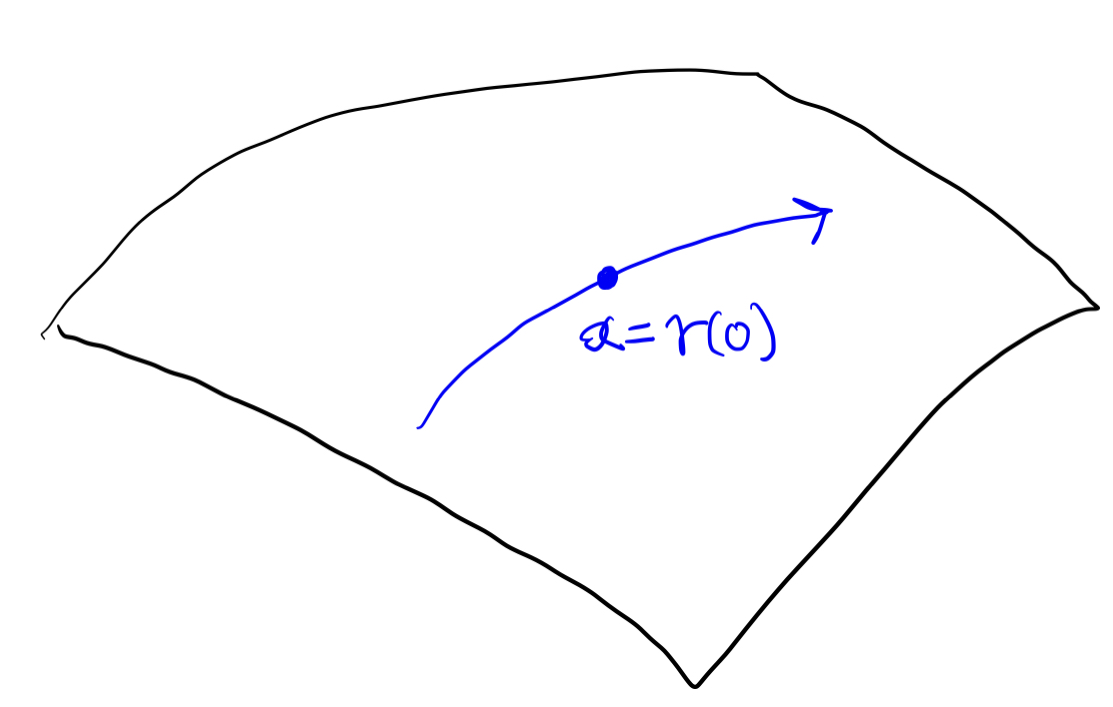
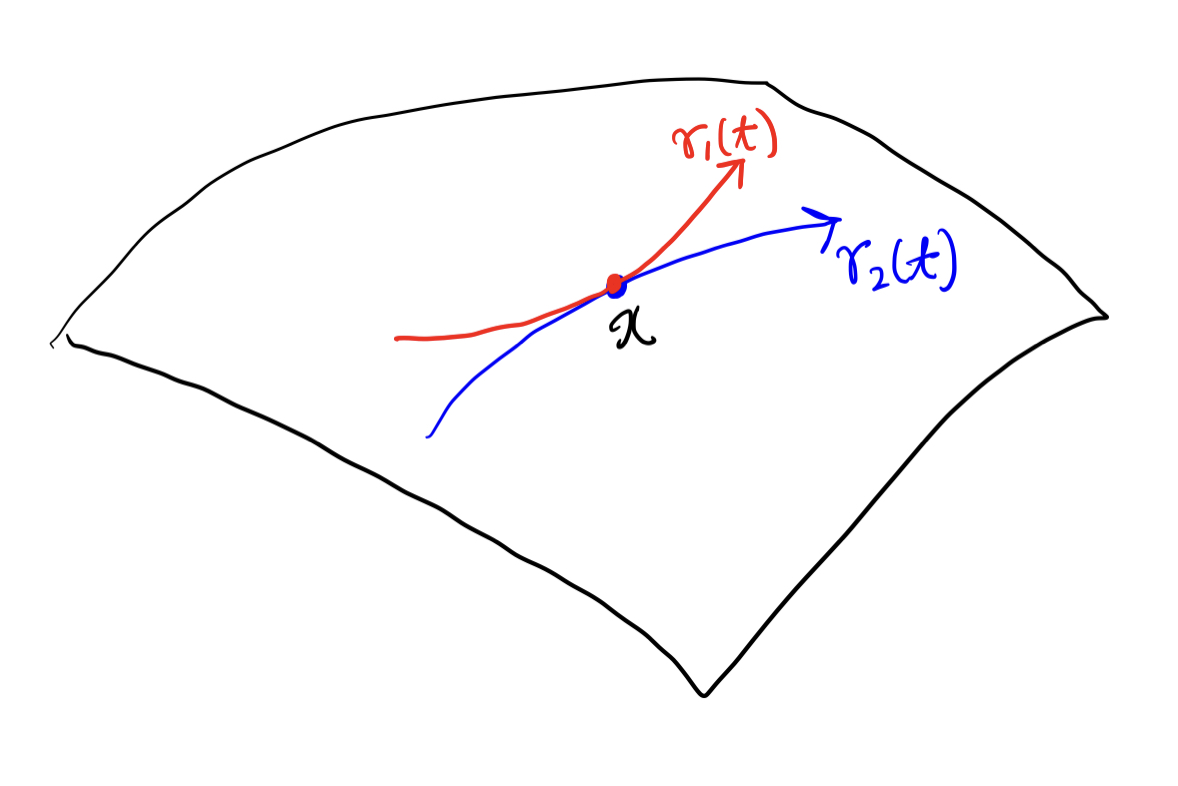
deploy: 22c6644ac49451fe6e3b860579829c01e823a8e8

diff --git a/6-tangent/index.html b/6-tangent/index.html
@@ -1,20 +1,14 @@
 <!doctype html><html lang=ja-jp prefix="og: http://ogp.me/ns# fb: http://ogp.me/ns/fb#"><head><meta charset=utf-8><meta http-equiv=x-ua-compatible content="IE=edge,chrome=1"><meta name=description content><meta name=HandheldFriendly content="True"><meta name=MobileOptimized content="320"><meta name=viewport content="width=device-width,initial-scale=1"><meta name=keywords content><meta property="og:type" content="article"><meta property="og:description" content><meta property="og:title" content="6. 接ベクトル空間"><meta property="og:site_name" content="Manifold Optimization"><meta property="og:image" content><meta property="og:image:type" content="image/jpeg"><meta property="og:image:width" content><meta property="og:image:height" content><meta property="og:url" content="https://nineties.github.io/manifold-optimization/6-tangent/"><meta property="og:locale" content="ja-jp"><meta property="article:published_time" content="0001-01-01
 "><meta property="article:modified_time" content="0001-01-01
 "><title>6. 接ベクトル空間</title><link rel=canonical href=https://nineties.github.io/manifold-optimization/6-tangent/><link rel=stylesheet href=https://unpkg.com/tachyons@4.11.1/css/tachyons.min.css><link rel=stylesheet href=https://nineties.github.io/manifold-optimization/css/style.css><link rel=stylesheet href=https://nineties.github.io/manifold-optimization/css/custom.css><link rel=stylesheet href=https://cdn.jsdelivr.net/npm/highlightjs@9.12.0/styles/github-gist.css><link rel=stylesheet type=text/css href=https://nineties.github.io/manifold-optimization/css/mathjax-style.css><script>MathJax={tex:{inlineMath:[['$','$']],displayMath:[['$$','$$']],processEscapes:!0,tags:"ams",autoload:{color:[],colorV2:['color']},packages:{'[+]':['noerrors']}},chtml:{matchFontHeight:!1,displayAlign:"left",displayIndent:"2em"},options:{renderActions:{find_script_mathtex:[10,function(a){for(const b of document.querySelectorAll('script[type^="math/tex"]')){const e=!!b.type.match(/; *mode=display/),c=new a.options.MathItem(b.textContent,a.inputJax[0],e),d=document.createTextNode('');b.parentNode.replaceChild(d,b),c.start={node:d,delim:'',n:0},c.end={node:d,delim:'',n:0},a.math.push(c)}},'']}},loader:{load:['[tex]/noerrors']}}</script><script async src=https://cdn.jsdelivr.net/npm/mathjax@3/es5/tex-chtml.js id=MathJax-script></script><link rel="shortcut icon" href=/favicon.ico type=image/x-icon><link rel=apple-touch-icon href=/apple-touch-icon.png></head><body lang=ja-jp class="sans-serif w-90 w-60-ns center center-ns mv2 mv5-ns" itemscope itemtype=http://schema.org/Article><span class=b>/</span>
-<a href=https://nineties.github.io/manifold-optimization/ class="b bb bw1 pb1 no-underline black">Manifold Optimization</a><section id=main class=mt5><h1 itemprop=name id=title>6. 接ベクトル空間</h1><article itemprop=articleBody id=content class="w-90 lh-copy"><p>多様体上での最適化を行う上では、点 $x\in\mathcal{M}$ での勾配、もしくは方向微分に相当するものを考える必要がある。(
-<a href=https://nineties.github.io/manifold-optimization/4-submanifold/#def.differential>定義4.2</a>
-の方向微分はバナッハ空間の写像に対するもの)</p><p>多様体 $\mathcal{M}$ 上の実数値関数 $f:\mathcal{M}\rightarrow\mathbb{R}$ の点 $x\in\mathcal{M}$ での方向 $\eta$ についての方向微分は
-$$ \mathrm{D}_{f}(x)[\eta] = \lim_{t\rightarrow 0}\frac{f(x+t\eta)-f(x)}{t} $$</p><p>みたいな感じで書けそうな気がするが、多様体上の点 $x$ について加算は定義されていない。そもそも $\eta$ をどう表現するかも明らかではない。チャートを使うというのが一つの方法だが、そうするとチャートの選び方に依存したものとなり使い勝手が悪い。</p><p>そこで、可微分写像 $\gamma:\mathbb{R}\rightarrow\mathcal{M}$ であって $\gamma(0)=x$ を満たすものを考える。このような写像を $\mathcal{M}$ 上の <strong>曲線(curve)</strong> という。</p><figure><img src=../images/curve.png></figure><p>これで、 $\mathcal{M}$ 上の点の移動を表すことができるようになったが、その差分 $\gamma(0 + t) - \gamma(0)$ を計算する方法が無い。ただ、上で求めたかった方向微分はこの考え方で求めることができて</p><p>$$\lim_{t\rightarrow 0}\frac{f(\gamma(t))-f(\gamma(0))}{t} =
-\left.\frac{\mathrm{d}}{\mathrm{d}t}f\circ\gamma(t)\right|_{t=0}
-$$</p><p>となる($\because$ $f\circ\gamma:\mathbb{R}\rightarrow\mathbb{R}$は $C^\infty$ 級関数)。 これはチャートの選び方に寄らないが、もちろん $f$ の選び方に依存して決まる量である。</p><p>そこで、チャートにも $f$ にも寄らないものとして</p><p>$$f\longmapsto
-\left.\frac{\mathrm{d}}{\mathrm{d}t}f\circ\gamma(t)\right|_{t=0}
+<a href=https://nineties.github.io/manifold-optimization/ class="b bb bw1 pb1 no-underline black">Manifold Optimization</a><section id=main class=mt5><h1 itemprop=name id=title>6. 接ベクトル空間</h1><article itemprop=articleBody id=content class="w-90 lh-copy"><p>多様体上でニュートン法などの最適化アルゴリズムを実行する為には、点 $x\in\mathcal{M}$ で勾配や方向微分に相当するものを計算できる必要がある。多様体 $\mathcal{M}$ 上の実数値関数 $f:\mathcal{M}\rightarrow\mathbb{R}$ の点 $x\in\mathcal{M}$ での方向 $\eta$ についての方向微分は、多様体上の点について加法が定義されていないので</p><p>$$ \mathrm{D}_{f}(x)[\eta] = \lim_{t\rightarrow 0}\frac{f(x+t\eta)-f(x)}{t} $$</p><p>といった感じでは書けない。方向 $\eta$ をどう表現するかも明らかではない。チャートを使うというのが一つの方法だが、そうするとチャートの選び方に依存したものとなり使い勝手が悪い。そこで、接ベクトルや接ベクトル空間といった概念が登場する。</p><p>接ベクトルの定義にはいくつかの流儀があるみたいで、今回参考にしている<a href=https://press.princeton.edu/absil>教科書</a>では多様体上の実関数に対する微分作用素を接ベクトルとする定義を採用している。この定義は理屈としては分かるものの、図形的な直感を(私は)なかなか得られなかったので、このノートでは別の定義から出発したいと思う。 そちらの定義では曲線の同値類として接ベクトルを定義をする。</p><hr><p>可微分写像 $\gamma:\mathbb{R}\rightarrow\mathcal{M}$ を $\mathcal{M}$ 上の <strong>曲線(curve)</strong> という。</p><figure><img src=../images/curve.png></figure><p>点 $x$ を通る曲線を用いる事で $x$ における点の運動を表現できそうである。但し、関心があるのは $x$ の局所的な様子であって曲線全体ではないので、 $x$ において同じ運動をしていると見なせる曲線群を同一視しようというのがこの定義のアイデアである。同じ運動をしているか否かは、点 $x$ の周囲に座標系を貼り付けた時に同じ速度ベクトルになっているか否かで判断できる。</p><div class=box><div class=title>定義6.1: 接ベクトル</div><p>$t=0$ で点 $x\in\mathcal{M}$ を通る曲線の集合
+$$ \mathcal{L}_x = \{\gamma:\mathbb{R}\rightarrow\mathcal{M} \mid \gamma(0)=x \}$$
+の上の同値関係を $x$ を含むチャート $(U,\varphi)$ を用いて
 $$
-という <strong>作用素</strong> を考えて、これを接ベクトルと呼ぶ。</p><div class=box><div class=title>定義6.1: 接ベクトル</div><p>$\mathcal{F}_x$ を $x\in\mathcal{M}$ の近傍で定義される$\mathbb{R}$への可微分写像の集合とする。</p><p>$x$を通る曲線 $\gamma:\mathbb{R}\rightarrow\mathcal{M}, \gamma(0)=x$ に対して、写像 $\xi_x:\mathcal{F}_x\rightarrow\mathbb{R}$</p><p>$$ \xi_x(f) = \left.\frac{\mathrm{d}}{\mathrm{d}t}f(\gamma(t))\right|_{t=0}$$</p><p>を $x$ における $\mathcal{M}$ の <strong>接ベクトル(tangent vector)</strong> という。</p></div><p>作用素を接ベクトルというと言われてもイメージが湧かないので具体例を考える。$\mathcal{M}=\mathbb{R}^2$ として、</p><p>$$\gamma(t) = (\cos t,\sin t)^T $$</p><p>という曲線を考える。単位円を反時計回りに回る曲線である。任意の可微分写像 $f:\mathbb{R}^2\rightarrow\mathbb{R}$ に対して</p><p>$$
-\frac{\mathrm{d}}{\mathrm{d}t}f(\cos t,\sin t) = -f_x\sin t + f_y\cos t = \begin{pmatrix}f_x & f_y\end{pmatrix}\begin{pmatrix} -\sin t \\ \cos t \end{pmatrix}
-$$</p><p>となるが、ここで馴染みのある $\gamma$ の接ベクトルの表現 $\gamma'(t):=(-\sin t\ \cos t)^T$ が現れた。また $J_f(\gamma(t)):=(f_x\quad f_y)$ は $f$ のヤコビ行列であるので</p><p>$$
-\frac{\mathrm{d}}{\mathrm{d}t}f(\cos t,\sin t) = J_f(\gamma(t))\gamma'(t)
-$$</p><p>と書ける。一般に、 $\mathcal{M}$ がユークリッド空間であれば</p><p>$$ \dot{\gamma}(0)f = \mathrm{D}_f(\gamma(0))[\gamma'(0)] $$</p><p>が成立し、曲線に沿った方向微分となっている事が分かる。</p><div class=box><div class=title>命題6.2</div><p>2つの $x$ を通る曲線 $\gamma_1,\gamma_2\ (\gamma_1(0)=\gamma_2(0)=x)$ から得られる $x$ での接ベクトルが一致するのは、適当な$x$を含むチャート $(U, \varphi(x))$ について</p><p>$$
-\left.\frac{\mathrm{d}}{\mathrm{d}t}\varphi(\gamma_1(t))\right|_{t=0} =
-\left.\frac{\mathrm{d}}{\mathrm{d}t}\varphi(\gamma_2(t))\right|_{t=0}
+\gamma_1\sim\gamma_2\Longleftrightarrow \frac{\mathrm{d}(\varphi\circ\gamma_1)}{\mathrm{d}t}(0) = \frac{\mathrm{d}(\varphi\circ\gamma_2)}{\mathrm{d}t}(0)
 $$
-となる時である。</p></div><p>接ベクトルというのは $x$ の周りの局所的な性質で決まるので、曲線の選び方には任意性があるが、適当なチャートで座標表示して得られる馴染みのある接ベクトル表現が一致すれば、どちらの曲線を選んでも良い。</p><div class=box><div class=title>定義6.3: 接ベクトル空間</div><p>多様体 $\mathcal{M}$ の点 $x$ における接ベクトルの集合を <strong>接ベクトル空間(tangent space)</strong> といい、 $T_x\mathcal{M}$ と書く。</p></div></article></section><footer><div><p class="f6 gray mt6 lh-copy"></p></div></footer><script src=//cdnjs.cloudflare.com/ajax/libs/highlight.js/9.14.2/highlight.min.js></script><script>hljs.initHighlightingOnLoad()</script></body></html>
+と定める。これはチャートの選び方に寄らない。
+$\mathcal{L}_x/{\sim}$ の元を $\mathcal{M}$ の点 $x$ での <strong>接ベクトル(tangent vector)</strong> という。</p></div><p>ここで定めた商集合 $\mathcal{L}_x/{\sim}$ にはベクトル空間の構造を入れることができる。点 $x$ の周りのチャート $(U,\varphi)$ を固定すると、$\mathcal{M}$ の接ベクトルと $\mathbb{R}^m$ の速度ベクトルが以下の対応によって一対一に対応する。</p><p>$$\phi:\mathcal{L}_x/{\sim}\longrightarrow\mathbb{R}^m: [\gamma] \longmapsto \frac{\mathrm{d}(\varphi\circ\gamma)}{\mathrm{d}t}(0) $$</p><p>これが単射であるのは定義より明らかで、全射であるのは任意の $v\in\mathbb{R}^m$ に対して</p><p>$$ \gamma(t) = \varphi^{-1}(\varphi(x) + vt) $$</p><p>とおけば $\phi([\gamma])=v$ となる事から分かる。</p><p>接ベクトルの和とスカラー倍と和も対応</p><p>$$ a_1[\gamma_1] + a_2[\gamma_2] \longmapsto a_1\frac{\mathrm{d}(\varphi\circ\gamma_1)}{\mathrm{d}t}(0) + a_2\frac{\mathrm{d}(\varphi\circ\gamma_2)}{\mathrm{d}t}(0)$$</p><p>によって定めれば良い。具体的に式で書くならば $\phi$ を使って</p><p>$$ a_1[\gamma_1] + a_2[\gamma_2] = \phi^{-1}(a_1\phi([\gamma_1])+a_2([\gamma_2])) $$</p><p>とすれば良い。これがチャート $(U,\varphi)$ の選び方に依存しない事は簡単に示すことができる。以上より$\mathcal{L}_x/{\sim}$ は$\mathcal{M}$と次元の等しいベクトル空間になる事が分かる。</p><div class=box><div class=title>定義6.2: 接ベクトル空間</div><p>$m$ 次元多様体の点 $x$ における接ベクトルの集合は $m$ 次元ベクトル空間である。これを <strong>接ベクトル空間(tangent vector space)</strong> といい $T_x\mathcal{M}$ と書く。</p></div><p>ベクトル空間であるからには、基底が存在してその線形結合で任意の元を表す事ができる。
+例えば $\mathbb{R}^m$ の標準基底</p><p>$$e_i=(0,\ldots,0,1,0,\ldots,0)^T$$</p><p>に対応する $T_x\mathcal{M}$ の元 $\phi^{-1}(e_i)$ が基底になる。この時の成分表示は
+$\varphi(x)=(\varphi_1(x)\ \cdots\ \varphi_m(x))^T$
+と表すと</p><p>$$\frac{\mathrm{d}(\varphi\circ\gamma)}{\mathrm{d}t}(0) = \left(\frac{\mathrm{d}(\varphi_1\circ\gamma)}{\mathrm{d}t}(0)\ \cdots\ \frac{\mathrm{d}(\varphi_m\circ\gamma)}{\mathrm{d}t}(0)\right)^T=\sum_{i}\frac{\mathrm{d}(\varphi_i\circ\gamma)}{\mathrm{d}t}(0)e_i$$</p><p>なので、$\phi^{-1}$ で $T_x\mathcal{M}$ に移すと</p><p>$$[\gamma] = \sum_i\frac{d(\varphi_i\circ\gamma)}{\mathrm{d}t}(0)\phi^{-1}(e_i) $$</p><p>となる。</p></article></section><footer><div><p class="f6 gray mt6 lh-copy"></p></div></footer><script src=//cdnjs.cloudflare.com/ajax/libs/highlight.js/9.14.2/highlight.min.js></script><script>hljs.initHighlightingOnLoad()</script></body></html>

diff --git a/5-construction/index.html b/5-construction/index.html
@@ -17,8 +17,7 @@ $(x,y)\in U\times V$ となる開集合 $U\times V\subset\mathrm{graph}({\sim})^
 \{ ((x,0),(x,1)) \mid x &lt; 0 \} \cup
 \{ ((x,1),(x,0)) \mid x &lt; 0 \}
 $$</p><p>となる。すると $\pi$ は沈め込みにはなるので第一の条件は満たすが、閉集合ではない。</p><div class=box><div class=title>命題5.6</div><p>$\mathcal{M}/{\sim}$ が $\mathcal{M}$ の商多様体であるとし、 $\pi:\mathcal{M}\rightarrow\mathcal{M}/{\sim}$ を自然な全射とする。</p><p>$\mathrm{dim}(\mathcal{M}/{\sim}) &lt; \mathrm{dim}(\mathcal{M})$ であるならば、任意の同値類 $[x]\in\mathcal{M}/{\sim}$ について $\pi^{-1}([x])$ は $\mathcal{M}$ の
-$\mathrm{dim}(\mathcal{M}) - \mathrm{dim}(\mathcal{M}/{\sim})$ 次元部分多様体である。</p></div><p><a href=https://nineties.github.io/manifold-optimization/4-submanifold/#th.submersion-theorem>定理4.13</a>
-より。</p><p>商多様体上の可微分写像に関して、以下が言える。</p><div class=box><div class=title>命題5.7</div><p>可微分写像 $f:\mathcal{M}\rightarrow\mathcal{N}$ が同値関係 $\sim$ に関して不変 ($x\sim y\Rightarrow f(x)=f(y)$) であるならば、</p><p>$$\tilde{f}\circ\pi=f$$</p><p>となるような連続写像 $\tilde{f}:\mathcal{M}/{\sim}\rightarrow\mathcal{N}$ が一意に存在する。</p></div><p>$f$ が不変であるということは、$\tilde{f}([x])=f(x)$ の値が $x$ の選び方に寄らない($\tilde{f}$がwell-definedである)ということ。</p><div id=ex.real-projective-space style=padding-top:100px;margin-top:-100px></div><div class=box><div class=title>例5.8: 実射影空間</div><p>$\mathbb{R}^n_\ast = \mathbb{R}^n\setminus\{0\}$ を同値関係
+$\mathrm{dim}(\mathcal{M}) - \mathrm{dim}(\mathcal{M}/{\sim})$ 次元部分多様体である。</p></div><p>より。</p><p>商多様体上の可微分写像に関して、以下が言える。</p><div class=box><div class=title>命題5.7</div><p>可微分写像 $f:\mathcal{M}\rightarrow\mathcal{N}$ が同値関係 $\sim$ に関して不変 ($x\sim y\Rightarrow f(x)=f(y)$) であるならば、</p><p>$$\tilde{f}\circ\pi=f$$</p><p>となるような連続写像 $\tilde{f}:\mathcal{M}/{\sim}\rightarrow\mathcal{N}$ が一意に存在する。</p></div><p>$f$ が不変であるということは、$\tilde{f}([x])=f(x)$ の値が $x$ の選び方に寄らない($\tilde{f}$がwell-definedである)ということ。</p><div id=ex.real-projective-space style=padding-top:100px;margin-top:-100px></div><div class=box><div class=title>例5.8: 実射影空間</div><p>$\mathbb{R}^n_\ast = \mathbb{R}^n\setminus\{0\}$ を同値関係
 $$ x\sim y \Leftrightarrow \exists t\in\mathbb{R}_\ast, y=tx $$
 で割った空間は $n-1$次多様体となる。これを <strong>実射影空間(real projective space)</strong> といい
 $$\mathbb{RP}^{n-1}\simeq\mathbb{R}^n_\ast/{\sim}$$
